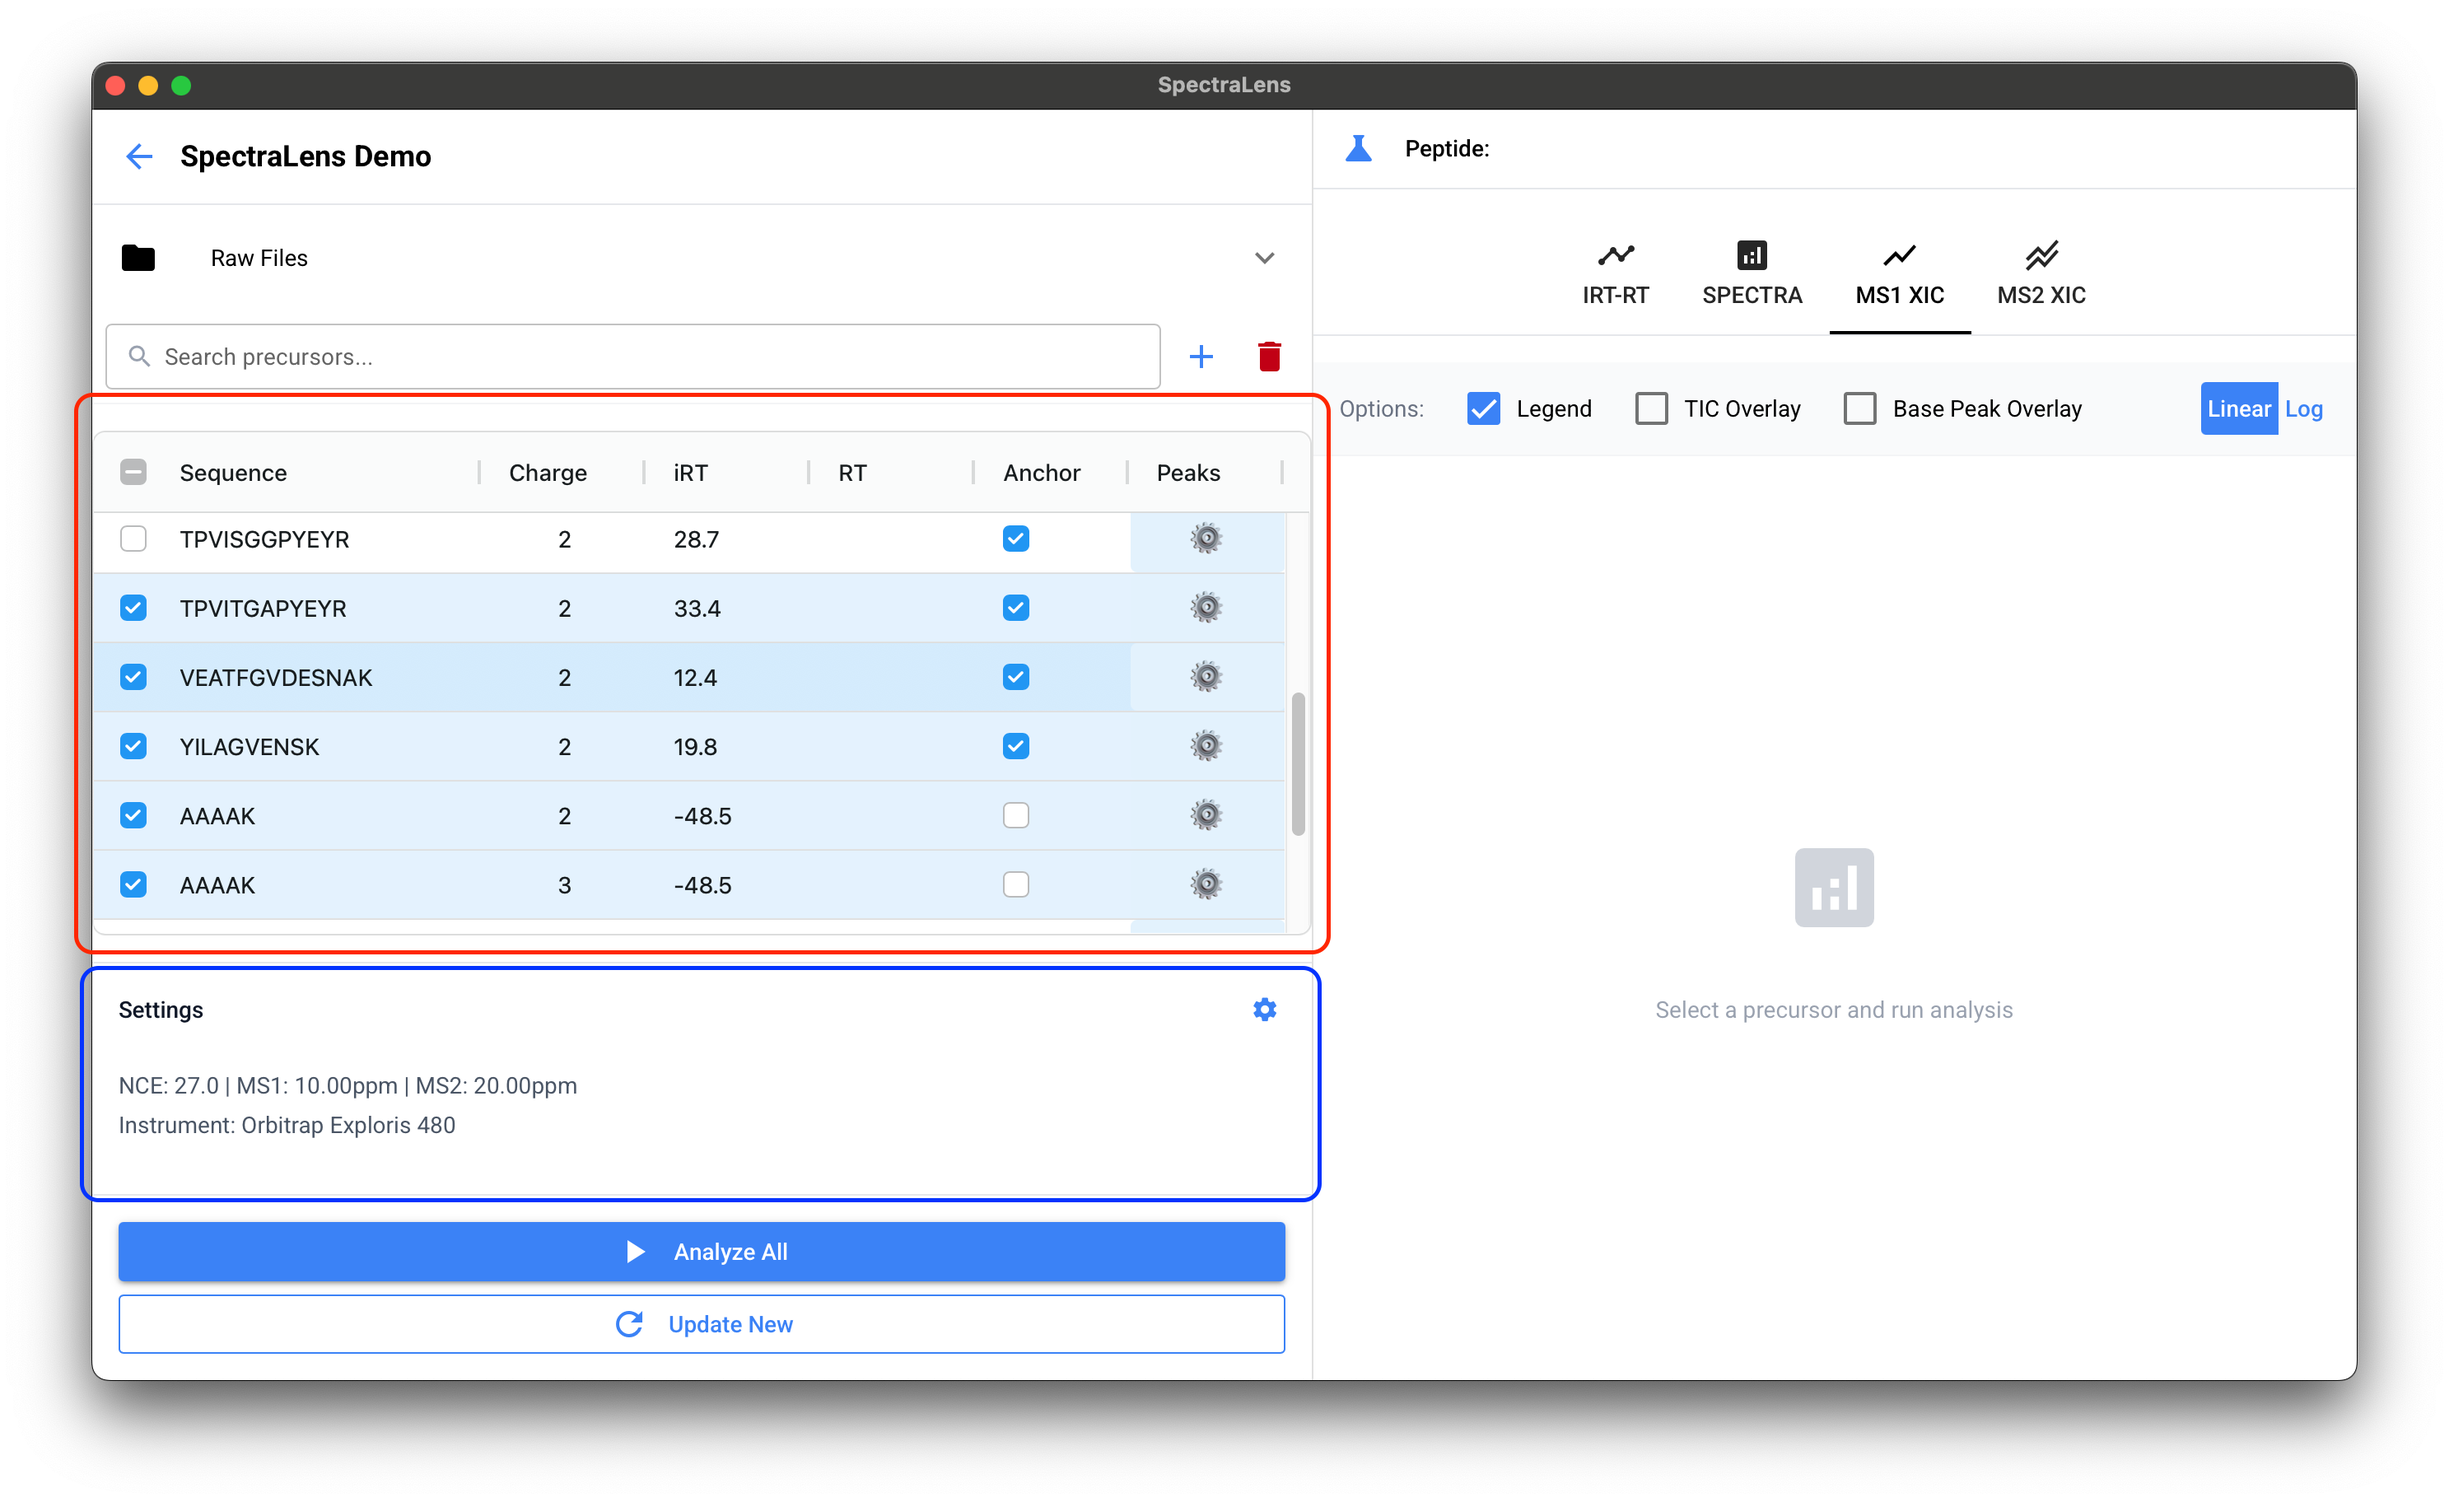
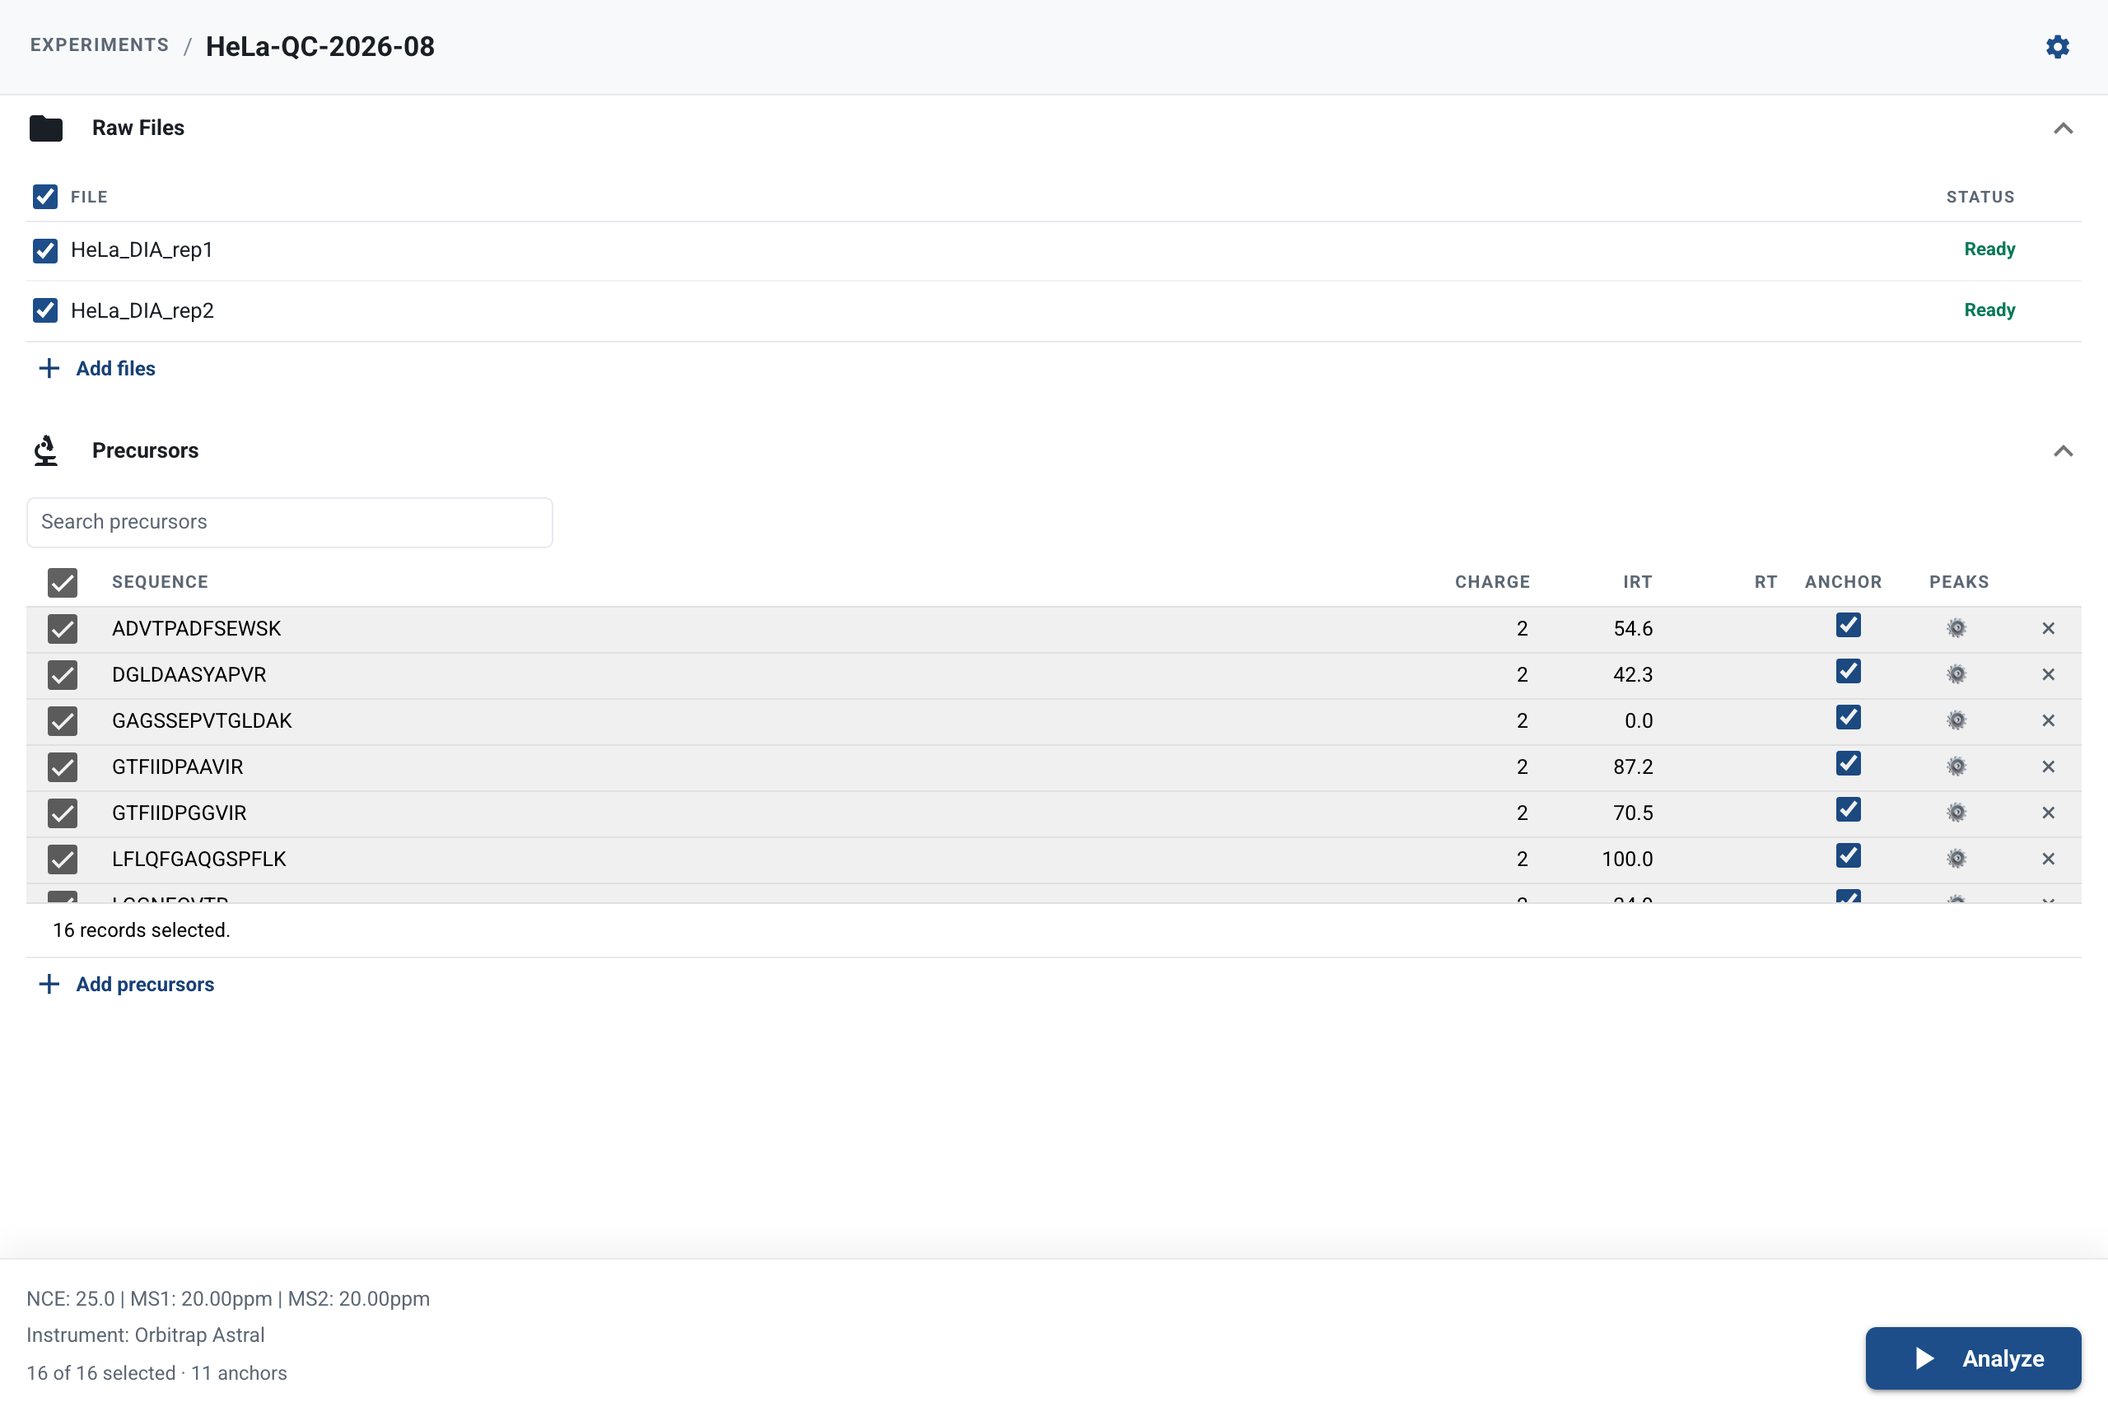
Update SpectraLens screenshots and guide for the 0.5.0 workspace
Claude-Session: https://claude.ai/code/session_01EFe5q6LqfQ6uEgvhktbsBs

diff --git a/spectralens/index.md b/spectralens/index.md
@@ -172,15 +172,15 @@ analytics_page_type: "landing_page"
                 <span>Step 1</span>
                 <h4>Add raw files</h4>
                 <p>
-                  Open the Raw Files panel, click <strong>Add Files</strong>, and choose the raw files you want
-                  to inspect. After the files are listed, select the blue checkbox for the file or files that
+                  Open the Raw Files panel, click <strong>Add files</strong>, and choose the raw files you want
+                  to inspect. After the files are listed, tick the checkbox for the file or files that
                   should be included in the targeted analysis.
                 </p>
               </div>
               <figure>
                 <img
                   src="{{ '/assets/images/spectralens/select_raw_files.png' | relative_url }}"
-                  alt="SpectraLens Raw Files panel with Add Files and file selection checkbox highlighted"
+                  alt="SpectraLens Raw Files panel with two raw files listed and selected"
                   loading="lazy"
                 >
                 <figcaption>Add raw files, then select the files to use for analysis.</figcaption>
@@ -192,17 +192,16 @@ analytics_page_type: "landing_page"
                 <span>Step 2</span>
                 <h4>Open the precursor input dialog</h4>
                 <p>
-                  Click the <strong>+</strong> button in the precursor toolbar to open the sequence input dialog.
-                  If the button is not visible, collapse the Raw Files panel first so the precursor list has more space.
+                  Click <strong>Add precursors</strong> below the precursor list to open the sequence input dialog.
                 </p>
               </div>
               <figure>
                 <img
                   src="{{ '/assets/images/spectralens/add_sequences.png' | relative_url }}"
-                  alt="SpectraLens precursor list with plus button highlighted and Raw Files panel highlighted"
+                  alt="SpectraLens Add Precursors dialog opened over the precursor list"
                   loading="lazy"
                 >
-                <figcaption>Use the plus button to add target precursor sequences.</figcaption>
+                <figcaption>Use Add precursors to open the sequence input dialog.</figcaption>
               </figure>
             </article>
 
@@ -219,7 +218,7 @@ analytics_page_type: "landing_page"
               <figure>
                 <img
                   src="{{ '/assets/images/spectralens/fill_sequences.png' | relative_url }}"
-                  alt="SpectraLens Add Peptide dialog with sequence input examples"
+                  alt="SpectraLens Add Precursors dialog with three target sequences entered"
                   loading="lazy"
                 >
                 <figcaption>Enter one or more target sequences, then add them to the precursor list.</figcaption>
@@ -233,17 +232,18 @@ analytics_page_type: "landing_page"
                 <p>
                   Select the sequence rows you want to analyze. Anchor precursors are used for RT-iRT mapping.
                   SpectraLens automatically fills many settings from the raw file metadata, but you can adjust
-                  tolerances, instrument, NCE, RT window, and fragment limits from Settings when needed.
-                  Click <strong>Analyze All</strong> to extract and inspect the target peaks.
+                  tolerances, instrument, NCE, RT window, and fragment limits in <strong>Experiment Settings</strong>
+                  when needed. Click <strong>Analyze</strong> to extract and inspect the target peaks. Setup
+                  collapses into the icon rail once the run succeeds, so the results get the full window.
                 </p>
               </div>
               <figure>
                 <img
                   src="{{ '/assets/images/spectralens/select_seqs_settings.png' | relative_url }}"
-                  alt="SpectraLens precursor table and settings area with selectable sequence rows highlighted"
+                  alt="SpectraLens setup with every raw file and precursor selected, ready to analyze"
                   loading="lazy"
                 >
-                <figcaption>Select target sequences, review settings, and run Analyze All.</figcaption>
+                <figcaption>Select target sequences, review settings, and run Analyze.</figcaption>
               </figure>
             </article>
           </div>
